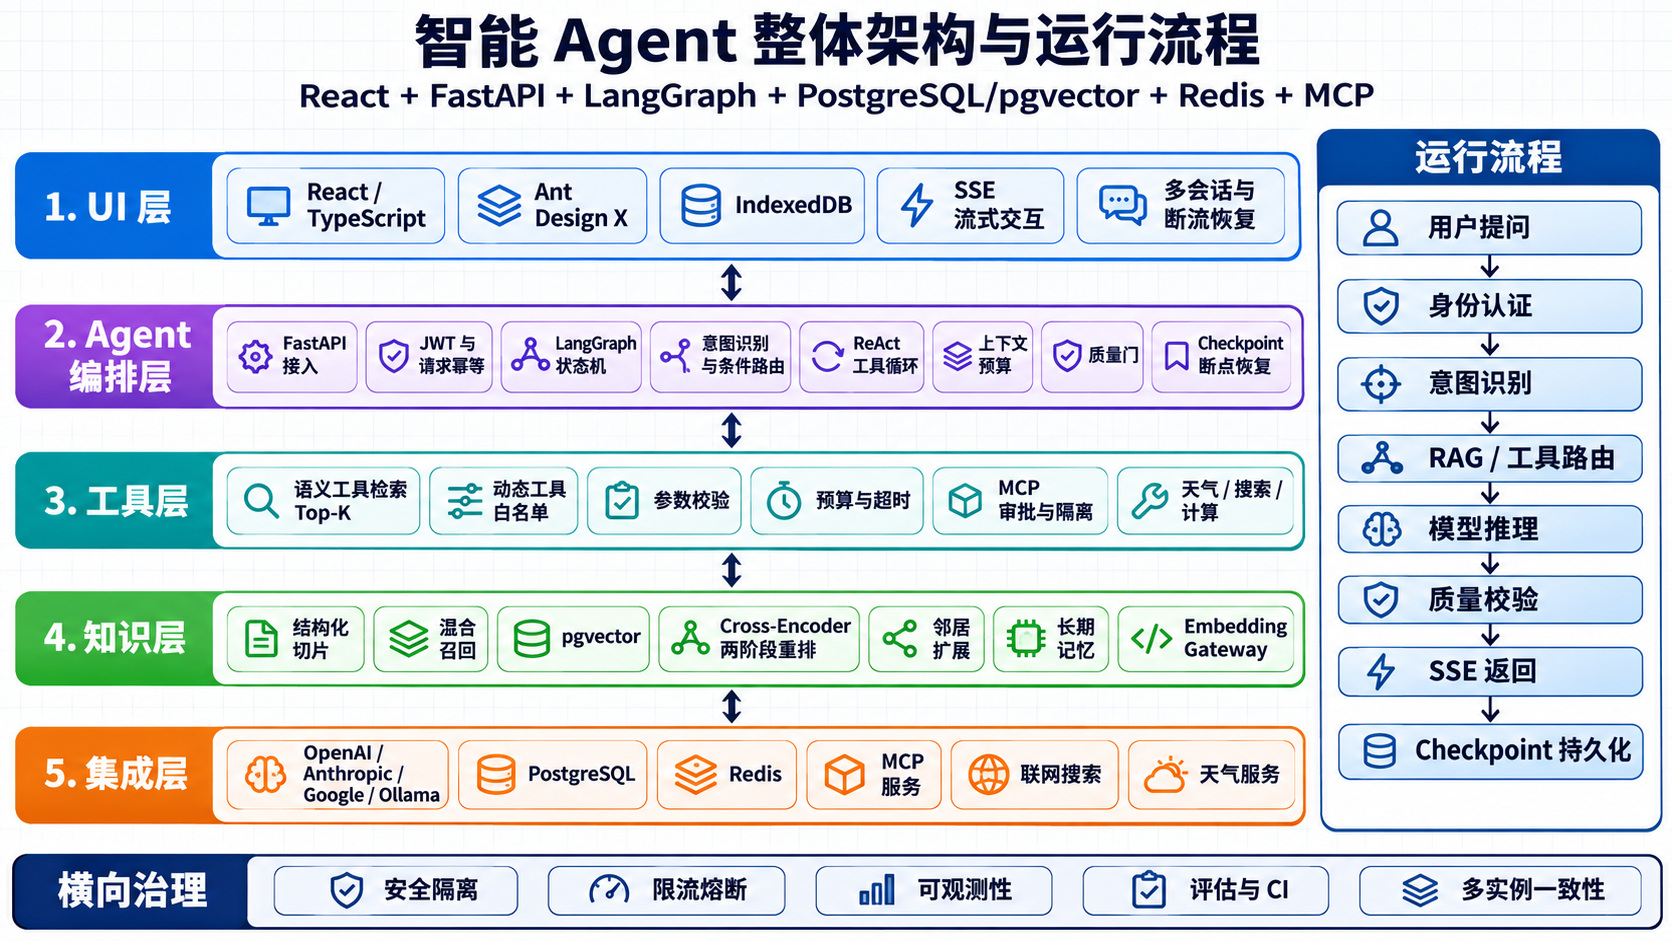
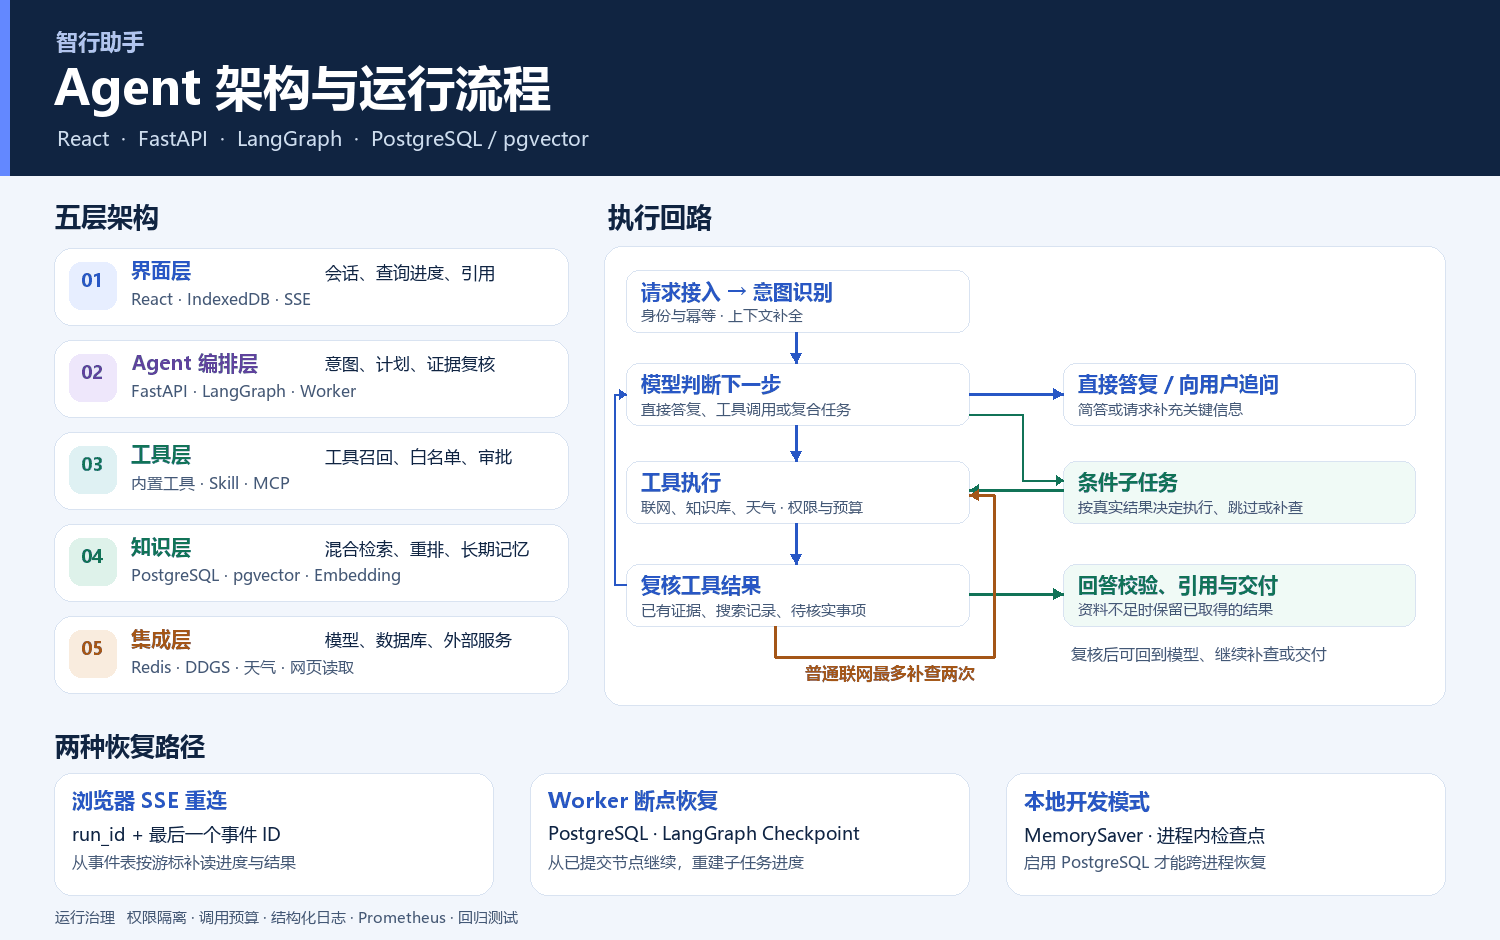
docs: 更新 Agent 架构图和执行恢复流程

diff --git a/docs/architecture/architecture.md b/docs/architecture/architecture.md
@@ -1,106 +1,70 @@
-# 智能 Agent 整体架构与运行流程
+# 智行助手架构与运行流程
 
-![智能 Agent 整体架构与运行流程](agent-architecture.png)
+![智行助手的五层架构、执行回路和恢复路径](agent-architecture.png)
 
-## 五层职责
+## 五层架构
 
-| 层级 | 核心职责 | 主要实现 |
+| 层级 | 职责 | 主要实现 |
 |---|---|---|
-| UI 层 | 对话交互、会话管理、流式展示、账号隔离与断流恢复 | React、TypeScript、Ant Design X、IndexedDB、SSE |
-| Agent 编排层 | 身份与幂等、意图识别、条件路由、ReAct 循环、上下文治理、质量门与断点恢复 | FastAPI、LangGraph、Checkpoint、Chat Run Worker |
-| 工具层 | 候选工具召回、动态白名单、参数校验、预算、超时、审批和隔离执行 | 内置工具、Skill、MCP、语义工具检索 |
-| 知识层 | 文档切片、混合检索、邻居扩展、证据组重排、长期记忆和 Embedding 治理 | PostgreSQL、pgvector、Cross-Encoder、Embedding Gateway |
-| 集成层 | 统一连接模型、数据库、缓存、MCP 和外部公开服务 | OpenAI、Anthropic、Google、Ollama、PostgreSQL、Redis、MCP |
+| 界面 | 会话交互、查询进度、引用展示和断流重连 | React、TypeScript、Ant Design X、IndexedDB、SSE |
+| Agent 编排 | 请求校验、意图路由、任务拆分、证据复核和回答交付 | FastAPI、LangGraph、Chat Run Worker |
+| 工具 | 工具召回、参数校验、调用预算、超时和审批 | 内置工具、Skill、MCP、语义工具检索 |
+| 知识 | 文档切片、混合检索、邻居扩展、证据组重排和长期记忆 | PostgreSQL、pgvector、可配置 Cross-Encoder、Embedding Gateway |
+| 集成 | 连接模型、数据库、缓存和外部数据源 | 模型适配器、PostgreSQL、Redis、DDGS、可选 DeepSeek Fetch、天气与 MCP 服务 |
 
-## 可维护架构源图
+## 执行回路
 
-```mermaid
-flowchart TB
-    subgraph UI["1. UI 层"]
-        React["React / TypeScript"]
-        Ant["Ant Design X"]
-        IDB["IndexedDB"]
-        SSE["SSE 流式交互与断流恢复"]
-    end
+~~~mermaid
+flowchart TD
+    User["用户提问"] --> API["FastAPI · 请求校验"]
+    API --> Intent["LangGraph · 意图识别与上下文补全"]
+    Intent -->|直接答复或需要澄清| Output["回答交付 · SSE"]
+    Intent -->|普通问答、联网或工具任务| Model["上下文预算与模型节点"]
+    Intent -->|显式知识库请求| Knowledge["准备知识库检索"]
+    Knowledge --> Tools["工具执行 · 权限、预算、超时"]
+    Model -->|发起工具调用| Tools
+    Model -->|形成草稿| Quality["回答校验与引用整理"]
+    Tools --> Review["根据结果判断下一步"]
+    Review -->|补查缺失证据| Tools
+    Review -->|资料足够或可部分回答| Model
+    Review -->|需要用户补充| Output
+    Model -->|复合任务| Plan["判断前置条件，执行下一子任务或定向补查"]
+    Plan -->|还有可执行子任务| Tools
+    Plan -->|计划执行完毕| Quality
+    Quality --> Output
+~~~
 
-    subgraph Agent["2. Agent 编排层"]
-        API["FastAPI 接入、JWT、请求幂等"]
-        Intent["意图识别与 Conditional Edge"]
-        Graph["LangGraph 状态机与 ReAct 循环"]
-        Context["上下文预算与滚动摘要"]
-        Quality["回答质量门"]
-        Checkpoint["Chat Run + Checkpoint 断点恢复"]
-    end
+- **普通联网查询**：首批之后，模型根据已有摘录、搜索记录和待核实事项选择补查、追问或交付。最多补查两次，受整轮工具额度和 50 个去重网页的上限约束。补查未增加可用摘录或查询词重复时，使用已有资料并说明缺口。
+- **条件复合任务**：先检查真实工具结果。例如预报显示下雨才搜索室内景点。公开搜索子任务可在留足其他原始任务额度的前提下补查一次，随后按子任务合并证据。
+- **查询进度**：前端可查看实际搜索词、网页结果、页面读取、补查和复合任务状态。最终正文附可点击引用。
 
-    subgraph Tools["3. 工具层"]
-        Retrieval["语义工具检索 Top-K"]
-        Allowlist["动态工具白名单"]
-        Governance["参数校验、预算、超时"]
-        MCP["MCP 审批与隔离"]
-        Builtins["天气 / 搜索 / 计算 / 记忆"]
-    end
+## 重连与恢复
 
-    subgraph Knowledge["4. 知识层"]
-        Chunk["结构化切片"]
-        Hybrid["向量 + 全文混合召回"]
-        Rerank["邻居扩展 + Cross-Encoder 两阶段重排"]
-        Memory["长期记忆"]
-        Embedding["Embedding Gateway"]
-    end
+| 场景 | 行为 |
+|---|---|
+| 浏览器连接中断 | 启用持久化聊天任务后，浏览器用 run_id 和最后一个事件 ID 重连，按游标补读事件。 |
+| Worker 中断 | 配置 CHECKPOINT_DATABASE_URL 后，新 Worker 从已提交的 LangGraph Checkpoint 继续，并根据保存的计划和工具结果恢复进度。 |
+| 本地未配置 PostgreSQL 检查点 | 使用进程内 MemorySaver，恢复范围为当前进程。 |
 
-    subgraph Integration["5. 集成层"]
-        Models["OpenAI / Anthropic / Google / Ollama"]
-        PG["PostgreSQL + pgvector"]
-        Redis["Redis"]
-        MCPServices["MCP 服务"]
-        External["联网搜索 / 天气服务"]
-    end
+持久化任务的进度独立写入事件表，工作流节点通过 Checkpoint 保存状态。最终文本事件和任务完成状态在同一个数据库事务内提交。
 
-    User(["用户提问"]) --> React
-    React -->|"JWT + HTTP/SSE"| API
-    API --> Intent
-    Intent -->|"普通问答"| Context
-    Intent -->|"知识查询"| Hybrid
-    Intent -->|"工具任务"| Retrieval
-    Retrieval --> Allowlist --> Governance --> Graph
-    Hybrid --> Rerank --> Graph
-    Memory --> Context --> Graph
-    Graph -->|"需要工具"| Governance
-    Graph -->|"形成草稿"| Quality
-    Quality -->|"通过"| Checkpoint
-    Quality -->|"修正或安全降级"| Graph
-    Checkpoint --> SSE --> React
+## 后端编排模块
 
-    Embedding --> Models
-    Hybrid --> PG
-    Memory --> PG
-    Checkpoint --> PG
-    Governance --> MCP
-    MCP --> MCPServices
-    Builtins --> External
-    Allowlist --> Redis
-    Embedding --> Redis
-```
-
-## 端到端运行流程
-
-```text
-用户提问
-→ JWT 身份认证与 API Key 校验
-→ message_id 请求幂等与会话级锁
-→ LangGraph 意图识别
-→ RAG、长期记忆或工具候选路由
-→ 主模型执行 ReAct 推理循环
-→ 引用、事实和工具状态质量校验
-→ Chat Run、事件和 Checkpoint 原子持久化
-→ SSE 按事件游标返回前端
-→ 断流或 Worker 故障后从持久状态恢复
-```
+| 模块 | 职责 |
+|---|---|
+| [service.py](../../backend/app/agent/service.py) | 初始化依赖、注册节点和连接 LangGraph 流程 |
+| [intent_node.py](../../backend/app/agent/intent_node.py) | 上下文补全、意图识别和复合任务计划 |
+| [context.py](../../backend/app/agent/context.py) | 上下文预算、窗口选择和历史压缩 |
+| [model_node.py](../../backend/app/agent/model_node.py) | 选择候选工具、装配提示词、调用模型 |
+| [tool_execution.py](../../backend/app/agent/tool_execution.py) | 执行工具、校验权限、处理审批和搜索预算 |
+| [evidence_node.py](../../backend/app/agent/evidence_node.py) | 证据复核、资料缺口判断和补查 |
+| [compound_tasks.py](../../backend/app/agent/compound_tasks.py) 和 [plan_progress.py](../../backend/app/agent/plan_progress.py) | 执行条件子任务，并从工具结果重建进度 |
+| [answer_node.py](../../backend/app/agent/answer_node.py) | 校验、整理引用和发布回答 |
+| [turns.py](../../backend/app/agent/turns.py) 和 [chat_run_worker.py](../../backend/app/api/chat_run_worker.py) | 对话检查点、流式事件和持久化任务恢复 |
 
 ## 横向治理
 
-- 安全隔离：JWT 身份、知识 ACL、工具白名单、MCP 审批、Prompt Injection 防护。
-- 可靠性：请求幂等、会话锁、断点恢复、超时、重试、限流、熔断和降级。
-- 可观测性：Request ID、结构化事件、Prometheus 指标和 RAG 评估报告。
-- 多实例一致性：PostgreSQL 持久状态、Redis 分布式限流与审批、Embedding SingleFlight。
-- 工程质量：后端单元测试、RAG 回归门禁、前端测试和 GitHub Actions CI。
+- **安全与隔离**：生产身份认证、知识库 ACL、工具白名单、MCP 审批和不可信资料处理。
+- **可靠性**：请求幂等、会话锁、调用预算、超时、有限补查和部分交付。
+- **可观测性**：HTTP 请求 ID、后台任务 run_id、结构化日志、Prometheus 指标和 RAG 评估。
+- **共享状态**：PostgreSQL 保存持久化聊天任务、检查点和配置后的知识库数据。Redis 支持多实例共享限流和 MCP 审批。
